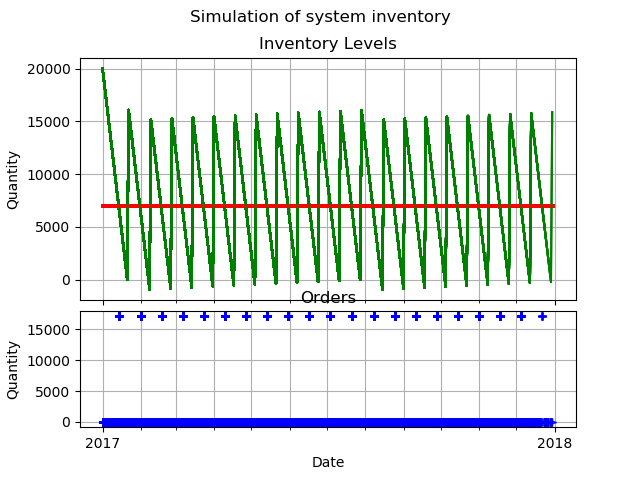
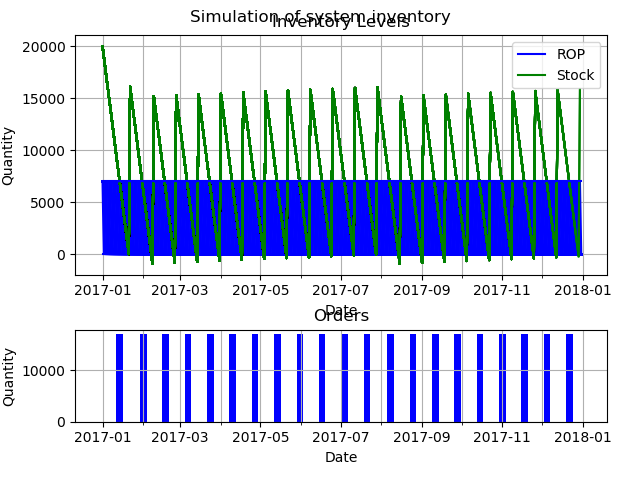
Fix add series system

diff --git a/wrappers/base.py b/wrappers/base.py
@@ -22,9 +22,15 @@ class CustomModelWrapper(gym.Wrapper):
     def render(self, mode='human'):
         self.env.render(mode=mode)
 
+        window_size = 20
+        window_start = max(self.env.iterator - window_size, 0)
+        step_range = slice(window_start, self.env.iterator + 1)
+
         # Plot all series
         for serie in self.series.columns:
-            self.env.chart.history.plot(self.series.index, self.series[serie], color='b')
+            self.env.chart.history.plot(self.series.iloc[window_start:self.env.iterator][serie].index.values,
+                                        self.series.iloc[window_start:self.env.iterator][serie].values,
+                                        color='r')
 
     def add_serie(self, serie_name, type=int):
         if serie_name in self.series:

diff --git a/envs/supply_env.py b/envs/supply_env.py
@@ -92,7 +92,7 @@ class SupplyEnv(gym.Env):
 
         self.seed()
 
-        self.chart = None
+        self.chart = Chart()
 
         self._calculate()
 
